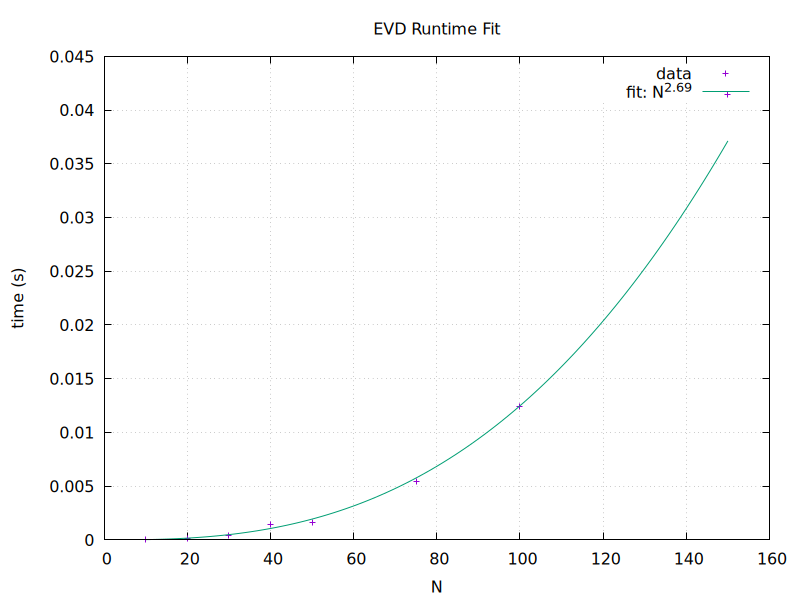
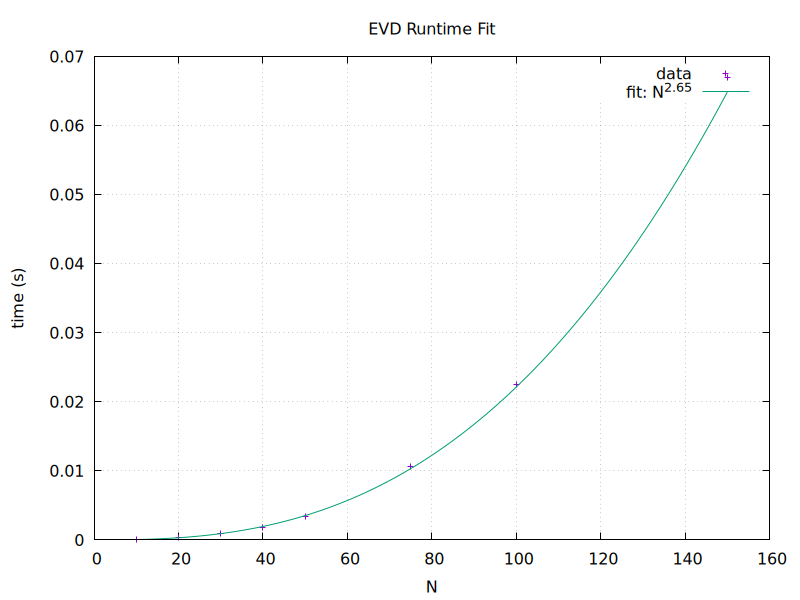
Clean up

diff --git a/Homework/Eigenvalues/lin_eq.h b/Homework/Eigenvalues/lin_eq.h
@@ -5,7 +5,7 @@
 #include <stdexcept>
 #include <random>
 
-namespace linalg {
+namespace linalg { //most of the Vector and Matrix struct is AI for convenience
 
 template<typename T>
 T conj_if_needed(const T& x) {
@@ -446,36 +446,30 @@ Matrix<double> random_symmetric(size_t n, std::mt19937& gen,
 }
 
 template<typename T>
-struct QR {
+struct QR{
     Matrix<T> Q;
     Matrix<T> R;
 
     QR(const Matrix<T>& A) {
-        //size_t m = A.rows();
-        size_t n = A.cols();
-
-        Q = A;
-        R = Matrix<T>(n, n);
-        for (size_t i =0;i<n; i++){
-            for (size_t j=0;j<i; j++){
-                R(j,i) = Q[j].dot(Q[i]);
-                Q[i] -= Q[j] * R(j,i); 
+        Q= A; 
+        size_t m =A.cols();
+        R= Matrix<T>(m,m) ;
+        for (size_t i=0;i<m; i++){
+        R(i,i)=Q[i].norm();
+        Q[i]/=R(i,i);
+        for (size_t j=i+1;j<m; j++){
+            R(i,j)=Q[i].dot(Q[j]);
+            Q[j]-=Q[i]*R(i,j); 
             } 
-            auto norm = Q[i].norm();
-            if (norm == 0.0)
-                throw std::runtime_error("Matrix is rank deficient");
-
-            R(i,i) = static_cast<T>(norm);
-            Q[i] /= R(i,i);
         }
-
     }
+
 
     Vector<T> solve(const Vector<T>& b){
         Vector<T> c=Q.dagger()*b;
         int n = R.cols();
         Vector<T> x(n);
-        for(int i = static_cast<int>(n)-1; i >= 0; i--){
+        for(int i = n-1; i >= 0; i--){
             T sum=T{0};
             for(int k=i+1; k<n; k++)
                 sum+=R(i,k)*x[k];

diff --git a/Homework/Eigenvalues/bench.cpp b/Homework/Eigenvalues/bench.cpp
@@ -14,7 +14,7 @@ int main(int argc, char* argv[]){
     int repeats = 5;
     double total = 0.0;
 
-    for (int i = 0; i < repeats; i++) {
+    for (int i = 0; i < repeats; i++) { //The idea of averaging multiple run as well as the use of chrono::high_resolution_clock is AI
         auto A = linalg::random_symmetric(n, gen);
         auto start = std::chrono::high_resolution_clock::now();
         auto [w, V] = linalg::jacobi(A);

diff --git a/Homework/Eigenvalues/main.cpp b/Homework/Eigenvalues/main.cpp
@@ -2,7 +2,7 @@
 #include<iostream>
 #include<chrono>
 std::mt19937 gen(20);
-int main(int argc, char* argv[]){
+int main(int argc, char* argv[]){ //I used AI to account for all the different "modes", which was quite cumbersome, so I used fstream afterwards
     if (argc < 4) {
         std::cerr << "Usage:\n";
         std::cerr << "./main mode rmax dr\n";